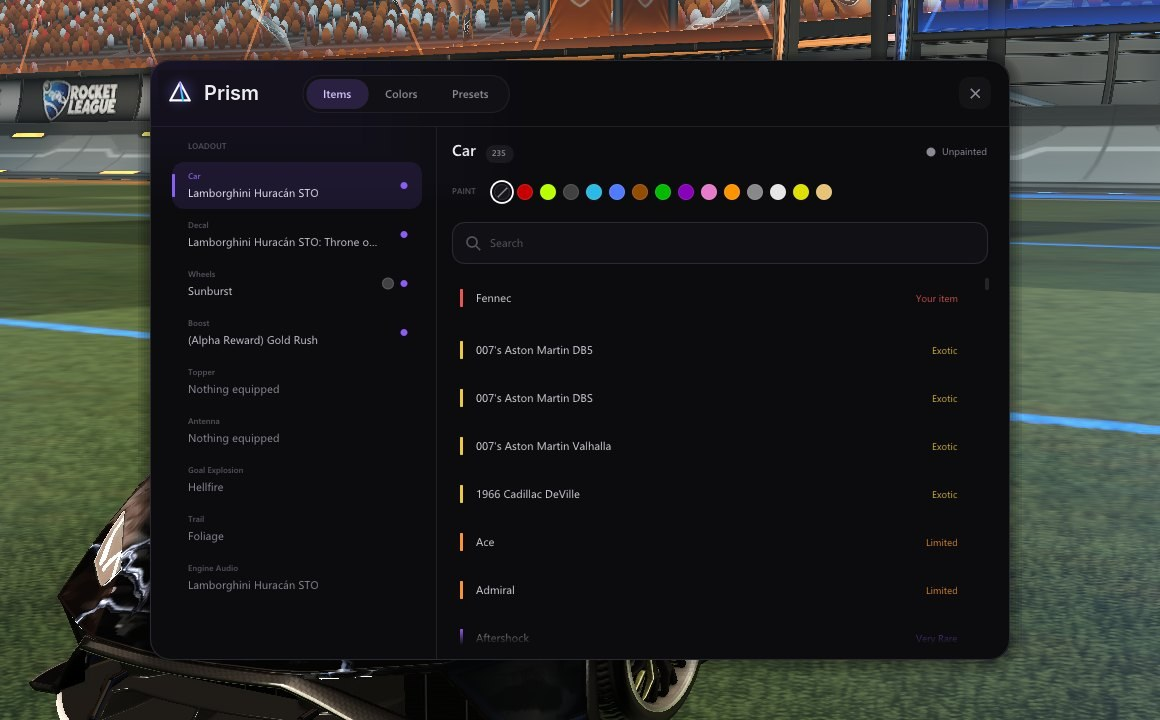
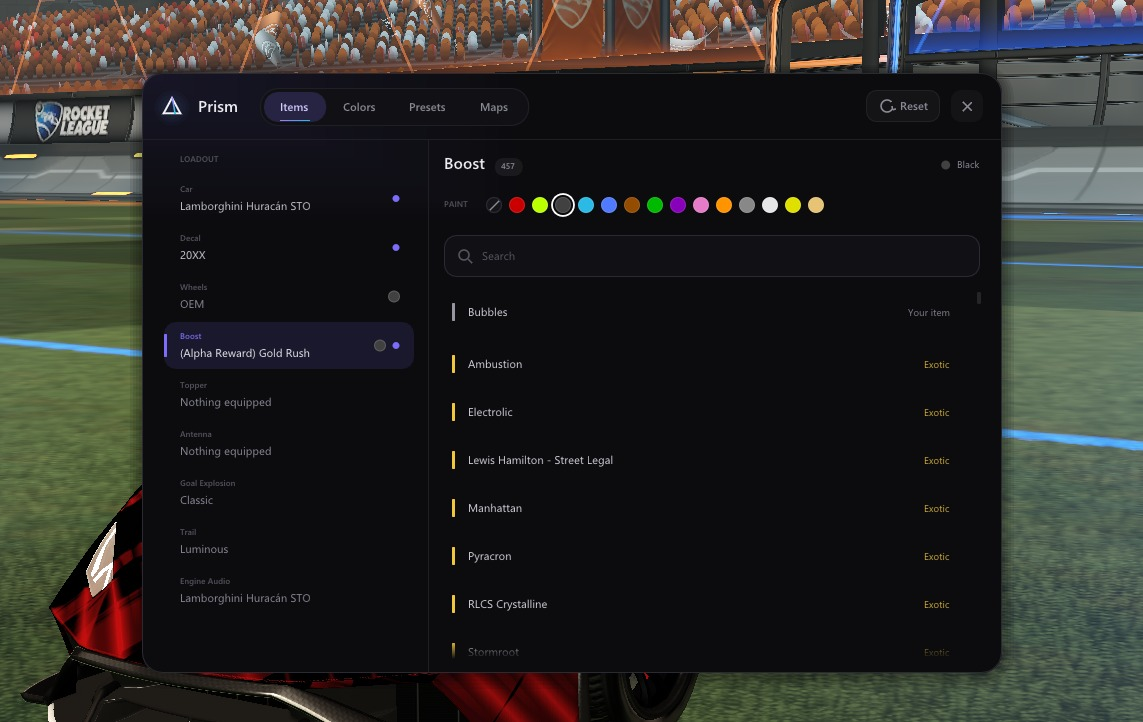
README rewritten with new screenshots; painted Gold Rush with stronger colors and deep black

diff --git a/mod/src/items.cpp b/mod/src/items.cpp
@@ -817,8 +817,9 @@ static std::string grPaintName;
 // So bleiben Verlauf, Glanz und Leuchten des Originals erhalten, nur der Farbton wechselt.
 static void Recolor(const float* o, float* out) {
 	float mx = std::max({o[0], o[1], o[2]}), mn = std::min({o[0], o[1], o[2]});
-	float chroma = mx - mn;
-	for (int k = 0; k < 3; k++) out[k] = (mn + chroma * grTn[k]) * grV;
+	// kraeftig statt verwaschen: nur ein kleiner Teil bleibt weiss, der Rest bekommt die volle Lackfarbe
+	float white = mn * 0.12f;
+	for (int k = 0; k < 3; k++) out[k] = (white + (mx - white) * grTn[k]) * grV;
 }
 
 static void Tint(float* rgb, const float* target, bool grayToo) {
@@ -1348,9 +1349,10 @@ static void TickBoostPaint() {
 	for (int k = 0; k < 3; k++) target[k] = (mx > 0.0001f ? paint[k] / mx : 1.0f) * std::max(val, 0.02f);
 	memcpy(grTarget, target, sizeof grTarget);
 	// Farbton und Helligkeit: Schwarz ist wirklich (fast) schwarz, Grau gedaempft, kraeftige Farben leuchten wie das Gold
-	for (int k = 0; k < 3; k++) grTn[k] = mx > 0.0001f ? paint[k] / mx : 1.0f;
+	// Farbton satter machen (Lackfarben aus dem Spiel sind eher pastellig)
+	for (int k = 0; k < 3; k++) grTn[k] = mx > 0.0001f ? powf(paint[k] / mx, 1.8f) : 1.0f;
 	bool blackish = mx < 0.06f || grPaintName == "Black" || grPaintName == "Onyx";
-	grV = blackish ? 0.012f : std::min(1.0f, powf(mx, 0.55f) * 1.15f);
+	grV = blackish ? 0.0f : std::min(1.25f, powf(mx, 0.45f) * 1.3f);
 	grCoreOn = true;
 	// Partikel-Komponenten des Boosts (Garage und Spiel) regelmaessig neu suchen
 	if (now >= grCompsAt && !grTemplates.empty()) {

diff --git a/README.md b/README.md
@@ -3,40 +3,51 @@
 </p>
 
 <h1 align="center">Prism</h1>
-<p align="center">A Rocket League launcher for Windows<br><sub>formerly ZLauncher</sub></p>
+<p align="center">A Rocket League launcher for Windows, with an in-game menu for items, colors and workshop maps.<br><sub>formerly ZLauncher</sub></p>
 
 <p align="center">
   <a href="../../releases/latest"><b>⬇ Download the latest version</b></a>
 </p>
 
 <p align="center">
-  <img src="assets/home.jpg" width="880" alt="Prism Home">
+  <img src="assets/home.jpg" width="880" alt="Prism launcher">
 </p>
 
-## Features
+## Launcher
 
-- **Play** – start Rocket League with or without Anti-Cheat, close it again with one click.
-- **Friends** – see which Steam friends are online or in a game, live.
-- **Browse Maps** – find and download workshop maps right in the app.
-- **F8 menu** – press **F8** in game to use any item, painted versions, your own car colors and presets.
-- **Maps in game** – in the F8 menu under **Maps**, put any workshop map into an arena and play it in Freeplay. **Restore** puts the original arena back.
-- **Game Boost** – more performance while you play.
-- **Discord** – shows your mode and score on your profile.
-- Themes, tray mode and automatic updates.
+- **Play**: start Rocket League with or without Anti-Cheat. The button shows when the game is running and closes it again with one click.
+- **Steam friends**: see who is online, in Rocket League or in another game, live. The list can be folded away.
+- **Browse Maps**: find and download workshop maps right in the app.
+- **Settings**: everything on one page with a side menu: sounds, tray, start with Windows, what the close button does, menu key, Game Boost, Discord, Steam API key, themes and folders.
+- **Game Boost**: more performance while you play. Everything goes back to normal when the game closes.
+- **Discord**: shows your mode and score on your profile.
+- **Themes, tray and updates**: four color themes, runs quietly in the tray, starts with Windows if you want and updates itself.
+
+## In-game menu
+
+Press **F8** in Rocket League (you can pick another key in the settings). Everything here is only visible to you.
 
 <p align="center">
-  <img src="assets/items.jpg" width="880" alt="Prism item menu in Rocket League">
+  <img src="assets/items.jpg" width="880" alt="Prism menu in Rocket League">
 </p>
+
+- **Items**: use any car, decal, wheels, boost, topper, antenna, goal explosion, trail and engine sound, sorted by rarity. Painted versions included, even the painted **(Alpha Reward) Gold Rush**.
+- **Colors**: your own primary and accent colors with a color picker and finishes, for both teams or each one separately.
+- **Presets**: save item sets, then load, update, rename or delete them.
+- **Maps**: put any workshop map into an arena, mark favorites (they stay on top) and hit **Play** to load it straight into Freeplay. **Restore** puts the original arena back.
+- **Reset** sets everything back to your own items with one click.
 
 ## Getting started
 
 1. [Download](../../releases/latest) `Prism.exe` and run it. No install needed.
 2. If Windows warns you, click **More info → Run anyway**.
-3. Make sure Steam is running and hit **Play**.
+3. Make sure Steam is running and hit **Play**. Choose *without Anti-Cheat* to use the in-game menu and workshop maps.
+
+Updating from ZLauncher? Just let it update. Your settings, maps and presets stay.
 
 ## Good to know
 
-- Workshop maps and the F8 menu only work **without Anti-Cheat**. Items are only visible to you.
+- The in-game menu and workshop maps only work **without Anti-Cheat**. Prism never loads anything into the game with Anti-Cheat on.
 - Needs Windows 10/11 and Rocket League on Steam.
 - Unofficial fan project, not affiliated with Psyonix, Epic Games, Valve or Discord. Use at your own risk.
 
